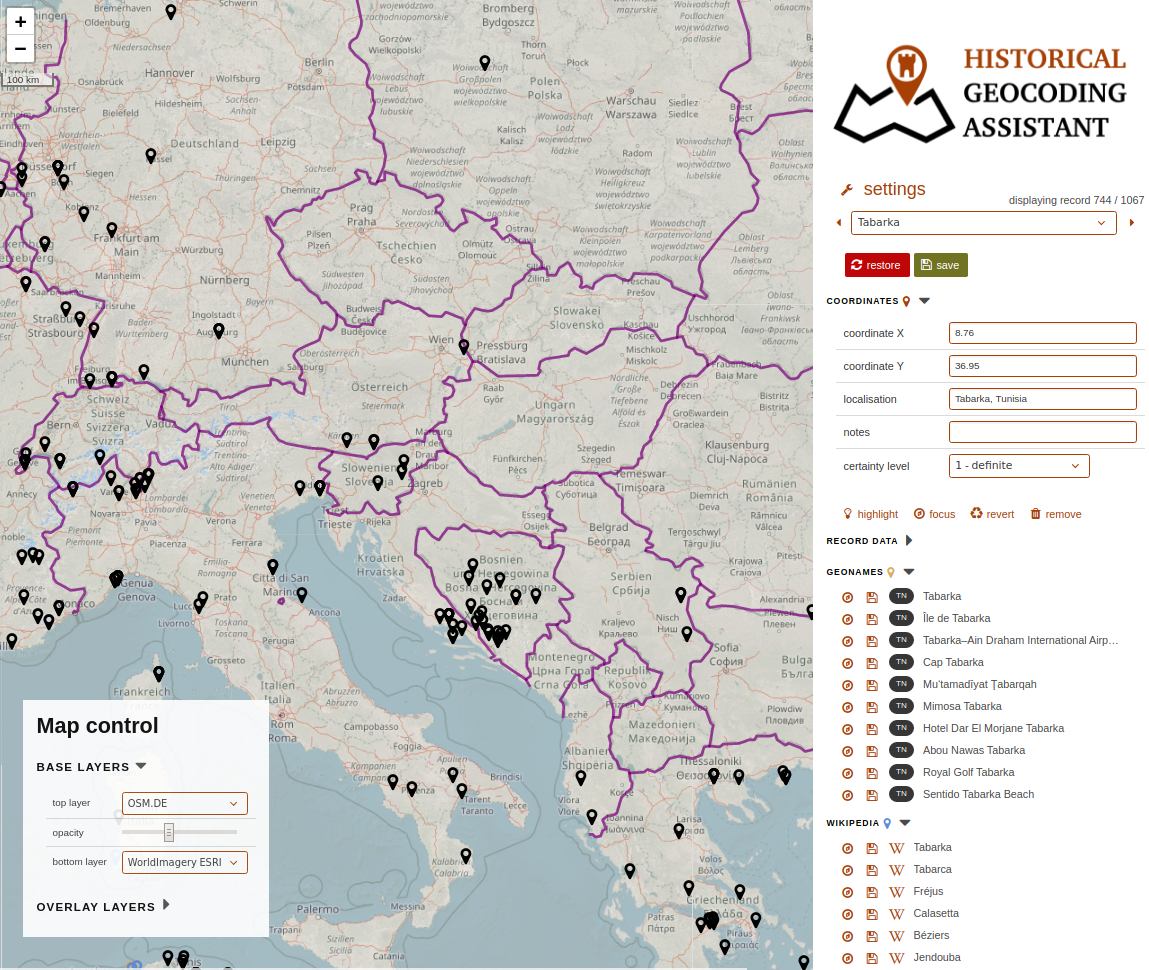
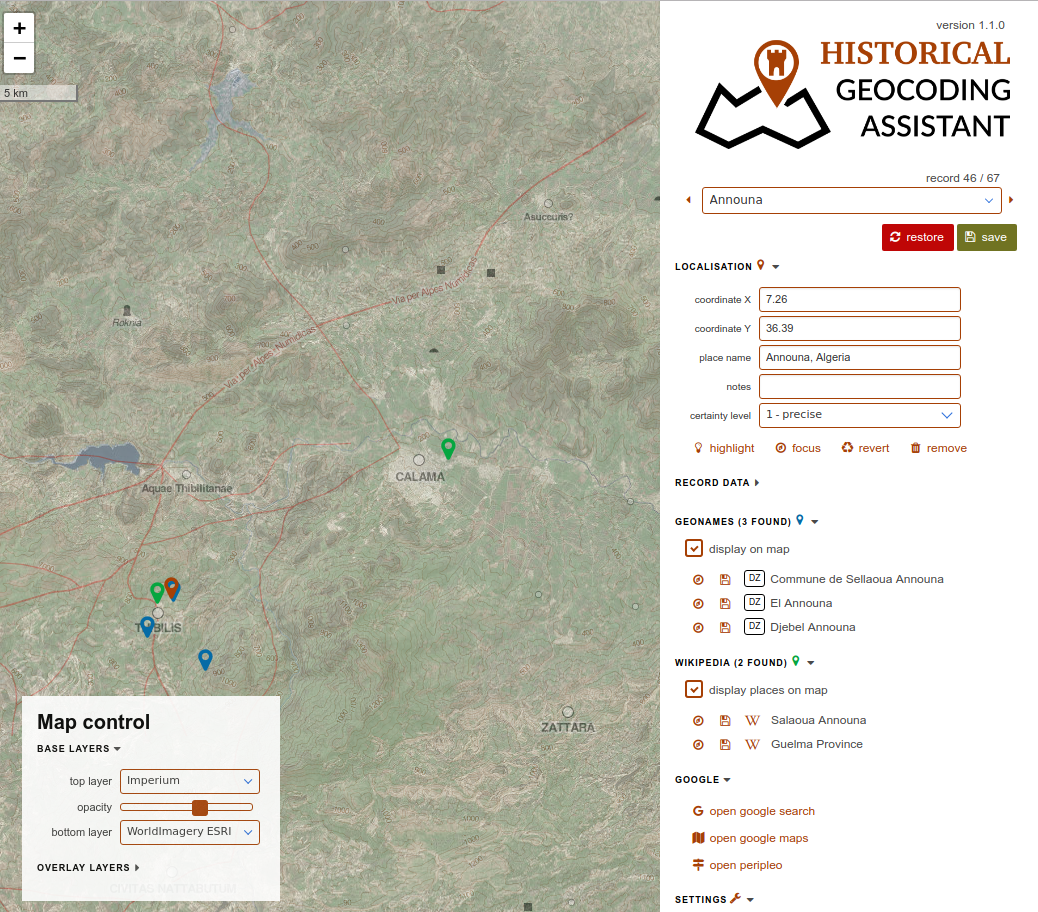
readme and screen update

diff --git a/README.md b/README.md
@@ -1,8 +1,12 @@
 # Historical Geocoding Assistant
 
-[manual](https://github.com/adammertel/historical-geocoder-assistant/tree/master/manual)
+![alt text](https://github.com/adammertel/historical-geocoder-assistant/blob/master/app/icon.png 'Historical Geocoding Assistant Logo')
 
 Tool for assisted geocoding of historical datasets (something between a manual table editing and automated geocoding script)
+
+## Manual
+
+[manual](https://github.com/adammertel/historical-geocoder-assistant/tree/master/manual)
 
 ## Description
 
@@ -17,6 +21,8 @@ At this moment, there are several other tools and methods that could help to geo
 * multiple base layers support (satellite, osm, historical base layers...)
 * ...
 
+![alt text](https://github.com/adammertel/historical-geocoder-assistant/blob/master/screen.png 'Historical Geocoding Assistant Screen')
+
 ## Technologies
 
 A client side web application, built with javascript (webpack, leaflet...) that could access and edit a google drive spreadsheet table.
@@ -27,8 +33,6 @@ It is needed to be signed into google drive and type the id of the table at the 
 
 ## TODO
 
-* dictionary
-* language switcher
-* formating of coordinates (' . ,)
+* dictionary and language switcher
 * measuring distances
 * documentation
